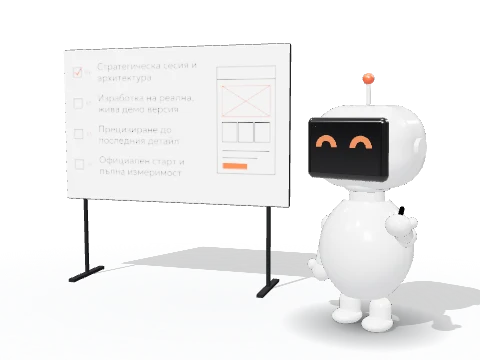
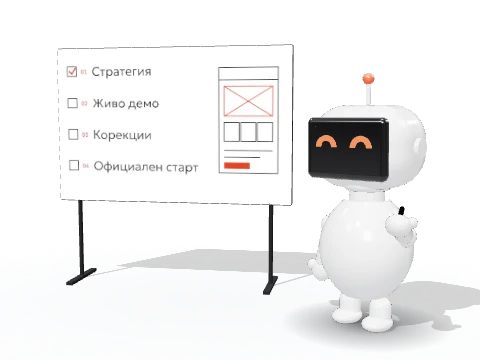
Design G home: readable whiteboard, tidy goal band, sharp package cards
- Kreo's whiteboard shows the short step names (config short) in a larger,
  regular face on an unlit board turned more to the viewer; phone stills
  re-rendered.
- „Нашата цел“: heading, paragraph and the three promises in one left column
  beside the globe, the promises in an even row.
- Home package cards are no longer rotated (blurry text on ordinary
  monitors); only PRO stays lifted.

Claude-Session: https://claude.ai/code/session_01ST2HVzJHgFK5FcxHpELynr

diff --git a/resources/js/kreo/story.js b/resources/js/kreo/story.js
@@ -124,10 +124,11 @@ export function createStory({ canvas, width, height, pixelRatio = 1.5, planTitle
     // ---- Station 0: the whiteboard with the plan (the four step titles)
     const board = new Group();
     board.position.set(X[0] + 0.35, 0, -0.55);
-    board.rotation.y = -0.2;
+    board.rotation.y = -0.08;
     board.scale.setScalar(0.92);
     scene.add(board);
-    const boardTex = canvasTex(1400, 900, (x, w, h) => {
+    const boardTex = canvasTex(2100, 1350, (x, w, h) => {
+        x.scale(1.5, 1.5);
         x.fillStyle = '#fff';
         x.fillRect(0, 0, w, h);
         const list = planTitles.length ? planTitles : ['', '', '', ''];
@@ -138,12 +139,15 @@ export function createStory({ canvas, width, height, pixelRatio = 1.5, planTitle
             x.strokeRect(64, y - 44, 56, 56);
             if (i === 0) { x.strokeStyle = '#E8431B'; x.lineWidth = 9; x.beginPath(); x.moveTo(74, y - 18); x.lineTo(92, y - 2); x.lineTo(116, y - 38); x.stroke(); }
             x.fillStyle = '#C4300F';
-            x.font = '500 30px "JetBrains Mono", monospace';
-            x.fillText(String(i + 1).padStart(2, '0'), 146, y - 4);
+            x.font = '500 34px "JetBrains Mono", monospace';
+            x.fillText(String(i + 1).padStart(2, '0'), 146, y - 2);
             x.fillStyle = '#0C0E12';
-            x.font = '300 58px Geologica, Onest, sans-serif';
-            const lines = wrap(x, title, 700).slice(0, 2);
-            lines.forEach((ln, k) => x.fillText(ln, 226, y + 6 + k * 66 - (lines.length > 1 ? 33 : 0)));
+            // Big, regular weight and one line: readable from the camera distance.
+            let size = 74;
+            x.font = `400 ${size}px Onest, Geologica, sans-serif`;
+            while (size > 46 && x.measureText(title).width > 720) { size -= 4; x.font = `400 ${size}px Onest, Geologica, sans-serif`; }
+            const lines = wrap(x, title, 720).slice(0, 2);
+            lines.forEach((ln, k) => x.fillText(ln, 216, y + 10 + k * (size + 6) - (lines.length > 1 ? (size + 6) / 2 : 0)));
         });
         // A page sketch on the right, boxes only: a header, a picture, three blocks.
         x.strokeStyle = '#0C0E12';
@@ -159,7 +163,7 @@ export function createStory({ canvas, width, height, pixelRatio = 1.5, planTitle
         x.fillStyle = '#E8431B';
         x.fillRect(1010, 660, 150, 36);
     });
-    const panel = new Mesh(new RoundedBoxGeometry(2.3, 1.48, 0.05, 4, 0.02), [0, 1, 2, 3, 4, 5].map((i) => (i === 4 ? new MeshStandardMaterial({ map: boardTex, roughness: 0.5 }) : new MeshStandardMaterial({ color: '#0C0E12', roughness: 0.4 }))));
+    const panel = new Mesh(new RoundedBoxGeometry(2.3, 1.48, 0.05, 4, 0.02), [0, 1, 2, 3, 4, 5].map((i) => (i === 4 ? new MeshBasicMaterial({ map: boardTex, toneMapped: false }) : new MeshStandardMaterial({ color: '#0C0E12', roughness: 0.4 }))));
     panel.position.y = 1.52;
     panel.castShadow = true;
     board.add(panel);

diff --git a/resources/css/g-3d.css b/resources/css/g-3d.css
@@ -27,11 +27,10 @@ html.design-g.dark .g-laptops .g-frame img { outline: 0; }
 
 /* ---- 2. Packages ---- */
 @media (min-width: 900px) and (hover: hover) and (pointer: fine) {
-    .design-g .g-plans[data-g-tilt] { border: 0; column-gap: 22px; padding: 30px 0 22px; perspective: 1800px; }
+    .design-g .g-plans[data-g-tilt] { border: 0; column-gap: 22px; padding: 30px 0 22px; }
     .design-g .g-plans[data-g-tilt] .g-plan, .design-g .g-plans[data-g-tilt] .g-plan:last-child { border: 1px solid var(--g-line-strong); }
     .design-g .g-plans[data-g-tilt] .g-plan:not(.g-rec) { background: var(--g-surface); box-shadow: 0 34px 40px -30px rgba(12, 14, 18, .4); }
-    .design-g .g-plans[data-g-tilt] .g-plan:first-child { transform: rotateY(7deg); }
-    .design-g .g-plans[data-g-tilt] .g-plan:last-child { transform: rotateY(-7deg); }
+    /* No rotation (owners, 19.11.2026): turned cards render blurry text on ordinary monitors. Only PRO is lifted. */
     .design-g .g-plans[data-g-tilt] .g-plan.g-rec { transform: translateY(-14px); z-index: 2; box-shadow: 0 44px 60px -30px rgba(12, 14, 18, .6); }
     html.design-g.dark .g-plans[data-g-tilt] .g-plan:not(.g-rec) { box-shadow: 0 34px 40px -30px rgba(0, 0, 0, .8); }
 }
@@ -45,4 +44,14 @@ html.design-g.dark .g-laptops .g-frame img { outline: 0; }
     .design-g #tsel .g-wrap { padding-bottom: 0; }
     .design-g .g-globe { left: auto; bottom: auto; right: calc(var(--gs) * -.32); top: 50%; margin: calc(var(--gs) * -.5) 0 0; opacity: 1; }
     .design-g #tsel .g-goal, .design-g #tsel .g-pr { max-width: calc(100% - var(--gs) * .54 - 6px); }
+}
+
+/* „Нашата цел“ text order (owners, 19.11.2026): heading, then the paragraph under it, then the three promises in one tidy row,
+   all in the left column next to the globe; reading goes top to bottom, no paragraph floating in the middle. */
+@media (min-width: 900px) {
+    .design-g #tsel .g-goal { grid-template-columns: minmax(0, 1fr); row-gap: 20px; align-items: start; }
+    .design-g #tsel .g-goal h2 { max-width: 16em; }
+    .design-g #tsel .g-goal-text { max-width: 36em; padding-bottom: 0; }
+    .design-g #tsel .g-pr { display: grid; grid-template-columns: repeat(3, minmax(0, 1fr)); gap: 24px 32px; padding-top: 24px; border-top: 1px solid var(--g-band-line); }
+    .design-g #tsel .g-pr p { display: grid; gap: 4px; }
 }

diff --git a/resources/js/kreo/stage.js b/resources/js/kreo/stage.js
@@ -4,7 +4,8 @@ import { createStory } from './story.js';
 
 export async function mount({ section, stageEl, getT, onLost }) {
     const root = document.documentElement;
-    const titles = [...section.querySelectorAll('[data-g-step] h3')].map((h) => h.textContent.trim());
+    // The board shows the short step names (config short, e.g. „Стратегия“) so they are readable from afar; the full title is the fallback.
+    const titles = [...section.querySelectorAll('[data-g-step]')].map((li) => (li.dataset.short || li.querySelector('h3')?.textContent || '').trim());
 
     // The whiteboard is painted on a canvas, so the fonts of the site must be there first.
     try {

diff --git a/resources/views/partials/g/kreo-story.blade.php b/resources/views/partials/g/kreo-story.blade.php
@@ -18,7 +18,7 @@
                     <h2 class="g-h" id="kak-rabotim-h">{{ $kreoPage['g_process_title'] ?? $kreoSteps[0]['title'] }}</h2>
                     <ol class="g-kreo-steps">
                         @foreach($kreoSteps as $step)
-                            <li class="g-kreo-step{{ $loop->first ? ' is-active' : '' }}" data-g-step>
+                            <li class="g-kreo-step{{ $loop->first ? ' is-active' : '' }}" data-g-step data-short="{{ $step['short'] ?? '' }}">
                                 <figure class="g-kreo-still">
                                     @include('partials.g.kreo-still', ['base' => 'kreo-' . $loop->iteration . ($loop->first ? '-' . $kreoLang : '')])
                                 </figure>
